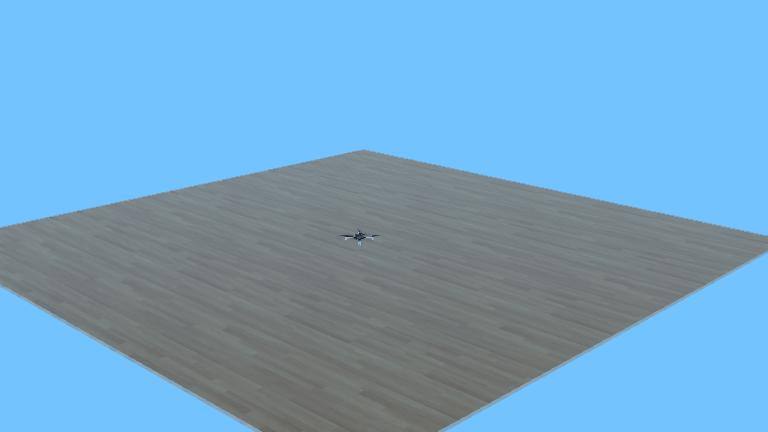
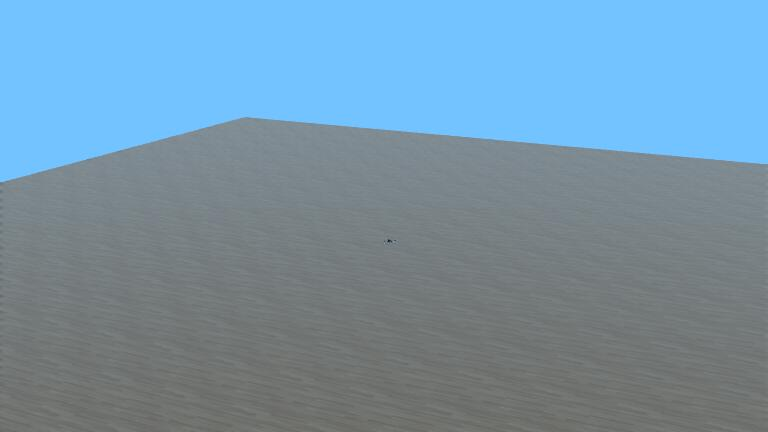
Rotação e 'laser' de sensores na reprodução de voo.

diff --git a/controllers/flight_reproductor/flight_reproductor.py b/controllers/flight_reproductor/flight_reproductor.py
@@ -9,9 +9,9 @@ import math
 class CrazylFlie(QWidget):
 
     def __init__(self):
-        self.fileSelector()
-        self.getDataFromFile()
         self.initSimUtilities()
+        self.fileSelector()
+        self.getDataFromFile()        
 
     def fileSelector(self):
         super().__init__()
@@ -30,12 +30,12 @@ class CrazylFlie(QWidget):
                 #Separando os dados do mesmo tipo. Ex: Position em x,y,z
                 sensor_data = sensor_data.split(',')
                 position_data = position_data.split(',')
-                rotation_data = rotation_data.split(',')
+                rotation_data = rotation_data.split(',')[2]
                 
                 #Transformando strings em numérico
                 sensor_data = [float(sensor)/1000 for sensor in sensor_data] #Divisão por 1000 para mm->m
                 position_data = [float(position) for position in position_data] 
-                rotation_data = [float(rotation) for rotation in rotation_data]
+                rotation_data = math.radians(float(rotation_data))
                 
                 #Salvando dados para utilização posterior
                 self.sensorReads.append(sensor_data)
@@ -47,7 +47,7 @@ class CrazylFlie(QWidget):
         assert len(self.sensorReads) == len(self.rotations)
         assert len(self.sensorReads[0]) == 4
         assert len(self.positions[0]) == 3
-        assert len(self.rotations[0]) == 3
+        assert type(self.rotations[0]) == float
 
     def initSimUtilities(self):
         self.cf_supervisor = Supervisor()
@@ -62,6 +62,18 @@ class CrazylFlie(QWidget):
         coords_node = self.cf_supervisor.getFromDef('TRAJECTORY_COORDINATES')
         self.coords_field = coords_node.getField('point')
 
+        self.front_sensor_pos = self.cf_supervisor.getFromDef('FRONT_SENSOR').getField('translation')
+        self.front_sensor_len = self.cf_supervisor.getFromDef('FRONT_LASER').getField('height')
+
+        self.back_sensor_pos = self.cf_supervisor.getFromDef('BACK_SENSOR').getField('translation')
+        self.back_sensor_len = self.cf_supervisor.getFromDef('BACK_LASER').getField('height')
+
+        self.left_sensor_pos = self.cf_supervisor.getFromDef('LEFT_SENSOR').getField('translation')
+        self.left_sensor_len = self.cf_supervisor.getFromDef('LEFT_LASER').getField('height')
+
+        self.right_sensor_pos = self.cf_supervisor.getFromDef('RIGHT_SENSOR').getField('translation')
+        self.right_sensor_len = self.cf_supervisor.getFromDef('RIGHT_LASER').getField('height')
+
     def run(self):
         last_position = self.cf_translation_field.getSFVec3f()
         count = 0
@@ -69,11 +81,11 @@ class CrazylFlie(QWidget):
         while self.cf_supervisor.step(32) != -1 and count < len(self.positions):
             self.rotateMotors(count)
             
-            [current_position, current_rotation] = self.getNewPoint(count)
-            current_rotation = self.rpy2xyza(current_rotation)
+            [current_position, current_rotation, current_measures] = self.getNewPoint(count)
 
             self.cf_translation_field.setSFVec3f(current_position)
-            self.cf_rotation_field.setSFRotation(current_rotation)
+            self.cf_rotation_field.setSFRotation(current_rotation)   
+            self.updateSensor(current_measures)         
 
             self.markTrajectory(last_position)            
 
@@ -81,25 +93,18 @@ class CrazylFlie(QWidget):
 
             count += 1
 
-    def rpy2xyza(self, rpy_dg):
-        # Converter os ângulos de graus para radianos
-        roll_rad = math.radians(rpy_dg[0])
-        pitch_rad = math.radians(rpy_dg[1])
-        yaw_rad = math.radians(rpy_dg[2])
+    def updateSensor(self, measures):
+       self.front_sensor_pos.setSFVec3f([measures[3]/2, 0, 0])
+       self.front_sensor_len.setSFFloat(measures[3])
 
-        # Calcular os componentes do vetor de eixos
-        x = math.cos(roll_rad) * math.sin(pitch_rad) * math.sin(yaw_rad) + \
-            math.sin(roll_rad) * math.cos(pitch_rad) * math.cos(yaw_rad)
-        y = math.sin(roll_rad) * math.cos(pitch_rad) * math.sin(yaw_rad) - \
-            math.cos(roll_rad) * math.sin(pitch_rad) * math.cos(yaw_rad)
-        z = math.cos(roll_rad) * math.cos(pitch_rad) * math.sin(yaw_rad) - \
-            math.sin(roll_rad) * math.sin(pitch_rad) * math.cos(yaw_rad)
+       self.back_sensor_pos.setSFVec3f([-measures[0]/2, 0, 0])
+       self.back_sensor_len.setSFFloat(measures[0])
 
-        # Calcular o ângulo de rotação
-        angle = 2 * math.acos(math.sqrt(x**2 + y**2 + z**2))
+       self.left_sensor_pos.setSFVec3f([0, measures[2]/2, 0])
+       self.left_sensor_len.setSFFloat(measures[2])
 
-        # Retornar o vetor de eixos e o ângulo
-        return [x, y, z, angle]
+       self.right_sensor_pos.setSFVec3f([0, -measures[1]/2, 0])
+       self.right_sensor_len.setSFFloat(measures[1])
 
     def markTrajectory(self, coord):
         self.coords_field.insertMFVec3f(-1, coord)
@@ -112,7 +117,7 @@ class CrazylFlie(QWidget):
 
     def getNewPoint(self, count):
         
-        return self.positions[count], self.rotations[count]
+        return self.positions[count], [0, 0, 1, self.rotations[count]], self.sensorReads[count]
 
 if __name__ == '__main__':
     app = QApplication(sys.argv)
